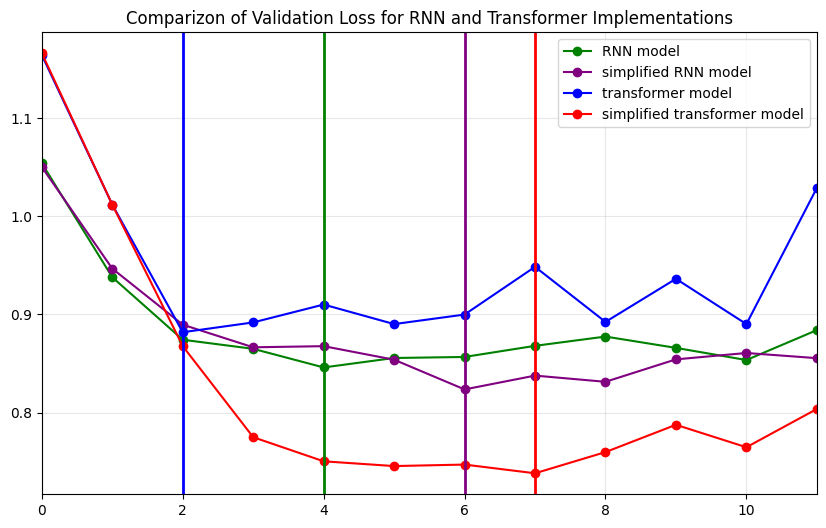
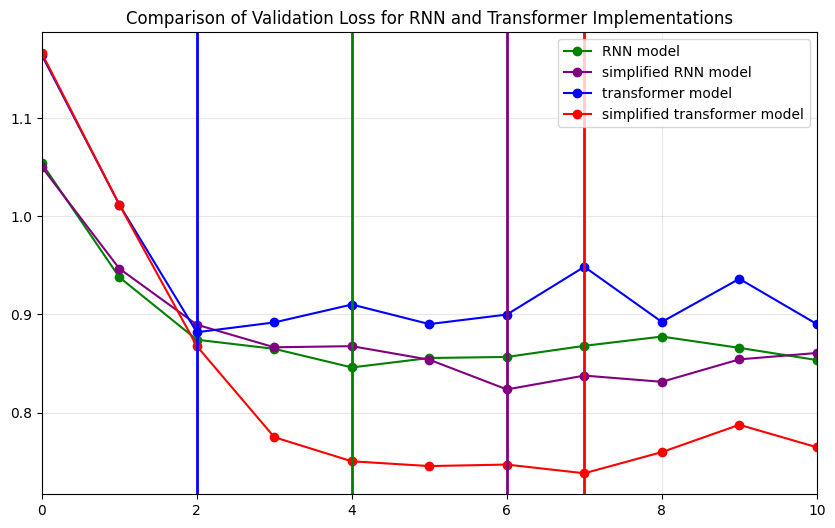
Final Commit

diff --git a/main.py b/main.py
@@ -227,11 +227,11 @@ def simplify_data (y):
 # ###################################################### MAIN ######################################################
 
 # Configuration
-EVALUATION_MODE = False
+EVALUATION_MODE = True
 DEVICE = torch.device('cuda' if torch.cuda.is_available() else 'cpu')
-TRAIN_RNN = True
+TRAIN_RNN = False
 TRAIN_TRANSFORMER = not TRAIN_RNN
-SIMPLE = False
+SIMPLE = True
 ### Used as a source path in evaluation mode and as a destination path in training mode, should be used to manage multiple models if needed
 MODEL_PATH = 'model/rnn_model.pt'
 TRANSFORMER_PATH = 'model/transformer_model.pt'
@@ -355,10 +355,10 @@ if __name__ == '__main__':
         BATCH_SIZE = 256
         SEQUENCE_LENGTH = 300
         NUM_EPOCHS = 50
-        HIDDEN_SIZE = 256
-        NUM_LAYERS = 4
+        HIDDEN_SIZE = 128
+        NUM_LAYERS = 3
 
-        NUM_HEADS = 8
+        NUM_HEADS = 4
         ## Regularize
         DROPOUT_RATE = 0.1
         L2_LAMBDA = 1e-03

diff --git a/Loss_Graphs.py b/Loss_Graphs.py
@@ -55,9 +55,9 @@ def display_regularization_graphs():
     plt.axvline(simple_rnn_loss.index(min(simple_rnn_loss)), color='purple', linestyle='-', linewidth=2)
     plt.axvline(transformer_loss.index(min(transformer_loss)), color='blue', linestyle='-', linewidth=2)
     plt.axvline(simple_transformer_loss.index(min(simple_transformer_loss)), color='red', linestyle='-', linewidth=2)
-    plt.title('Comparizon of Validation Loss for RNN and Transformer Implementations')
+    plt.title('Comparison of Validation Loss for RNN and Transformer Implementations')
     plt.legend()
-    plt.xlim(0,11)
+    plt.xlim(0,10)
     plt.savefig("report/Loss_Analysis.png", bbox_inches='tight')
     #plt.show()
 
